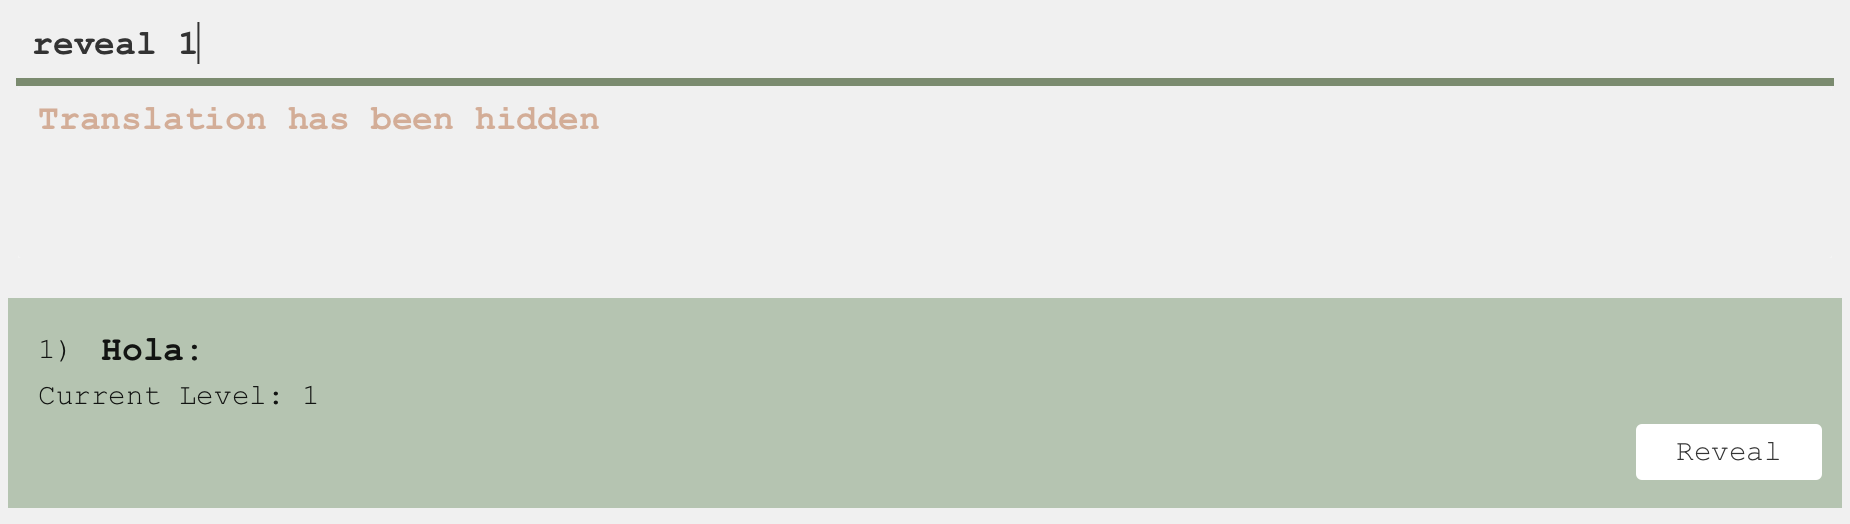
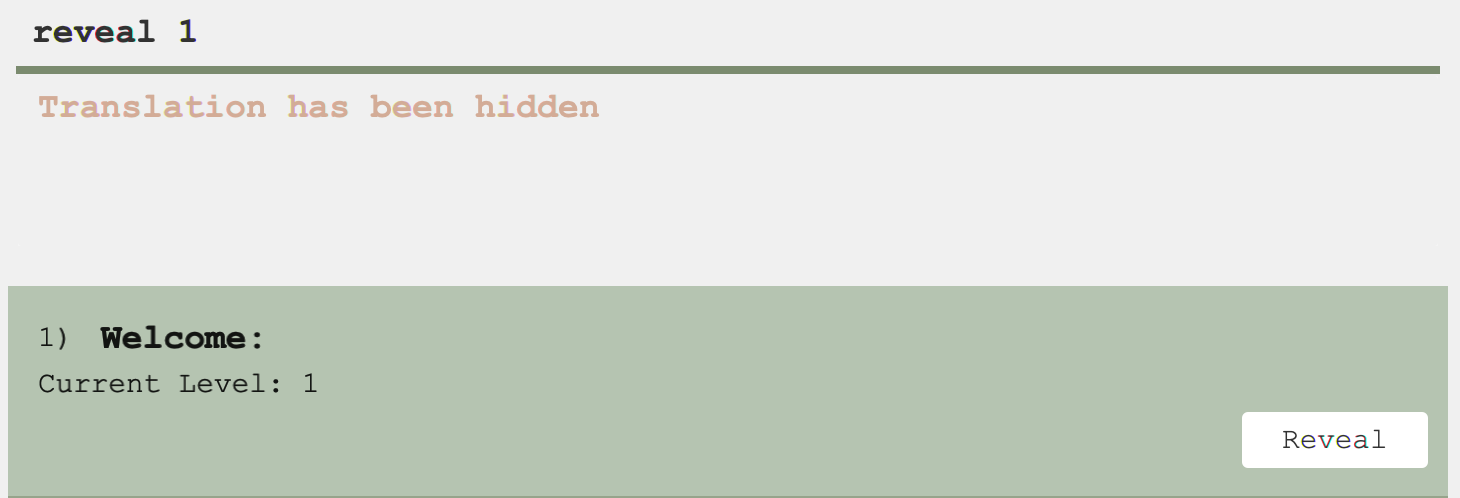
Fix reveal message change

diff --git a/src/main/java/seedu/flashlingo/model/util/SampleDataUtil.java b/src/main/java/seedu/flashlingo/model/util/SampleDataUtil.java
@@ -17,7 +17,7 @@ public class SampleDataUtil {
         return new FlashCard[]{
             new FlashCard(new OriginalWord("Welcome", "English"),
                 new TranslatedWord("欢迎", "Chinese"), new Date(), new ProficiencyLevel(1)),
-            new FlashCard(new OriginalWord("to", "English"), new TranslatedWord("来", "Chinese"),
+            new FlashCard(new OriginalWord("to", "English"), new TranslatedWord("来到", "Chinese"),
                 new Date(), new ProficiencyLevel(1)),
             new FlashCard(new OriginalWord("Flashlingo", "English"),
                 new TranslatedWord("闪邻国", "Chinese"), new Date(), new ProficiencyLevel(1))

diff --git a/src/main/java/seedu/flashlingo/logic/commands/RevealCommand.java b/src/main/java/seedu/flashlingo/logic/commands/RevealCommand.java
@@ -21,7 +21,7 @@ public class RevealCommand extends Command {
         + "used\nParameters: INDEX (must be a positive integer)\n"
         + "Example: " + COMMAND_WORD + " 1";
 
-    public static final String MESSAGE_SUCCESS = "Flashcard has been revealed!";
+    public static final String MESSAGE_SUCCESS = "The translation is: ";
     private final Index targetIndex;
     /**
      * Creates an RevealCommand.

diff --git a/docs/DeveloperGuide.md b/docs/DeveloperGuide.md
@@ -682,14 +682,14 @@ Use case resumes from step 3.
 Some of our current output messages are not formatted properly. For example, the message entering the `reveal` command is "Flashcard has been revealed!" followed directly by the translation. Users may be confused to distinguish the message and the translation.
 
 **Proposed Enhancement**
-* Formatting the messages to be more clear and user-friendly.
+* Formatting the messages to be more clear and consistent with User Guide.
 * Specifying output messages to be more detailed and grammatically correct.
 
 **Sample Output**
 
 | Current Output Message               | After Enhancement         |
 |--------------------------------------|---------------------------|
-| ![img.png](images/RevealMessage.png) | Translation: word         |
+| ![img.png](images/FindMessage.png)   | Parameters: <KEYWORDS...>              |
 | ![img.png](images/ReviewMessage.png) | ...1 flashcard(s) listed! |
 
 ### Enhancement 3: Adding frequency of usage tags
@@ -752,7 +752,7 @@ The Tag commands can be used in the following ways:
 - `editTag 2 ot/Rare rt/Uncommon` - Changes the 'Rare' tag to 'Uncommon' on the flashcard at index 2.
 - `delTag 3 tg/Essentials` - Deletes the 'Essentials' tag from the flashcard at index 3.
 
-### Design Considerations
+#### Design Considerations
 
 **Aspect: What is the most effective method of tagging Flashcards:**
 In enhancing the functionality of our flashcard system, we considered how users could tag flashcards to optimize their learning experience.
@@ -823,7 +823,7 @@ For advanced users who manually edit the data, they may accidentally introduce i
 * `Duplicated flash card ... found in flashlingo.json`: Duplicate combination of word and translation is found in the data file.
 * `Invalid flash card ... with invalid ... found in flashlingo.json`: Flash card with invalid word/translation, level or review date found.
 
-### Enhancement 4: Renaming `reveal` command to reduce ambiguity
+### Enhancement 6: Renaming `reveal` command to reduce ambiguity
 
 **Feature Flaw**
 Currently, the `reveal` command is used to reveal or hide the translation of the flash card. However, it may be ambiguous to users as they may think that the command is used to reveal the word itself.

diff --git a/docs/UserGuide.md b/docs/UserGuide.md
@@ -320,7 +320,8 @@ Output:
 
 **Note**
 * Pressing `yes` button will have the same effect.
-* In the case where there are no more words to review, `The next word is:` will be replaced by `You have no more words to review!`.
+* In the case where there are no more words to review, `The next word is:` will be replaced by  
+`You have no more words to review!`.
 
 ###  Indicating user has forgotten the word: `no`
 
@@ -335,7 +336,8 @@ Output:
 
 **Note**
 * Pressing `no` button will have the same effect.
-* In the case where there are no more words to review, `The next word is:` will be replaced by `You have no more words to review!`.
+* In the case where there are no more words to review, `The next word is:` will be replaced by  
+`You have no more words to review!`.
 
 ### Show learning statistics: `stats`
 
